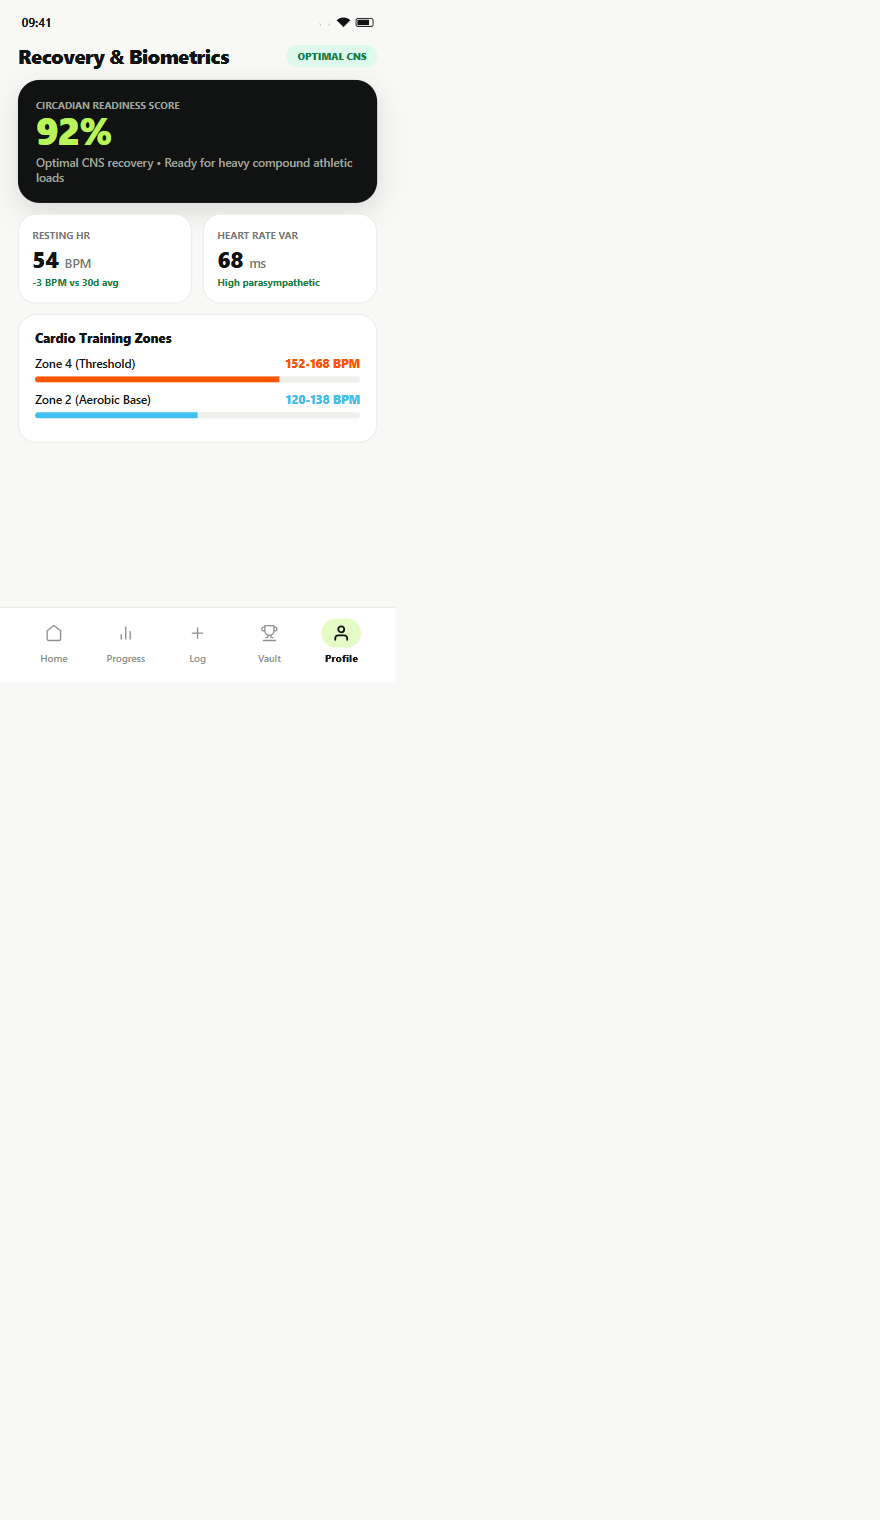
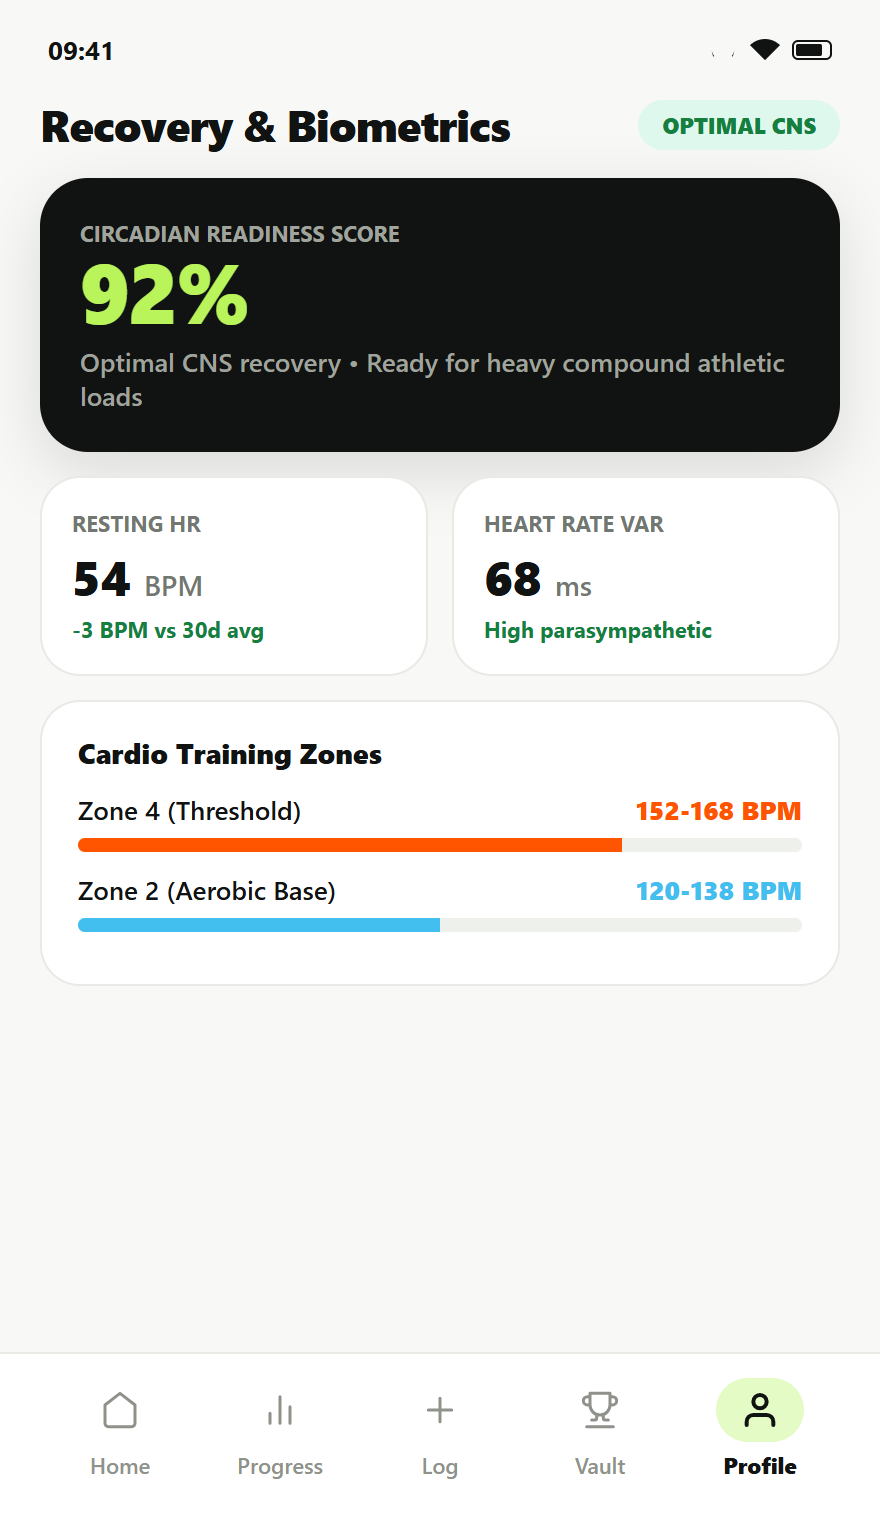
feat: landing UX improvements, real app mockups, centered case studies, and downloads tracking backend

diff --git a/components/landing/RuangEditLandingPage.tsx b/components/landing/RuangEditLandingPage.tsx
@@ -22,6 +22,25 @@ const TILTED_GRID_SCREENS = [
   { src: '/screens/screen_login.png', alt: 'FitFlow Athlete Authentication' },
 ] as const;
 
+const SERVICE_TRACK_SCREENS: Record<'strength' | 'biometrics' | 'hydration' | 'habits', { src: string; alt: string }> = {
+  strength: {
+    src: '/screens/screen_progress.png',
+    alt: 'FitFlow Strength & Heavy Overload Tracking',
+  },
+  biometrics: {
+    src: '/screens/screen_profile.png',
+    alt: 'FitFlow Heart Rate & Biometrics Telemetry',
+  },
+  hydration: {
+    src: '/screens/screen_home.png',
+    alt: 'FitFlow Daily Dashboard & Hydration Target',
+  },
+  habits: {
+    src: '/screens/screen_rewards.png',
+    alt: 'FitFlow 21-Day Habit Streaks & Milestone Vault',
+  },
+};
+
 export function RuangEditLandingPage() {
   const [isLoading, setIsLoading] = useState(true);
   const [activeSection, setActiveSection] = useState<'home' | 'services' | 'about'>('home');
@@ -228,14 +247,9 @@ export function RuangEditLandingPage() {
               alt="FitFlow Logo"
               className="w-8 h-8 sm:w-9 sm:h-9 rounded-full object-contain shadow-xs group-hover:scale-105 transition-transform"
             />
-            <div className="flex items-baseline gap-1.5 select-none">
-              <span className="font-extrabold text-white text-base sm:text-xl tracking-tight">
-                FitFlow
-              </span>
-              <span className="text-[10px] sm:text-xs font-semibold px-1.5 py-0.5 rounded-md bg-white/10 text-neutral-300 border border-white/10">
-                app
-              </span>
-            </div>
+            <span className="font-extrabold text-white text-base sm:text-xl tracking-tight select-none">
+              FitFlow
+            </span>
           </button>
 
           {/* Nav Links with Animated Active Indicator */}
@@ -514,96 +528,68 @@ export function RuangEditLandingPage() {
               ))}
             </div>
 
-            {/* Track Content Card (Side-by-Side Detail & Live Preview) */}
-            <div className="bg-neutral-50 border border-neutral-200/90 rounded-3xl p-6 sm:p-10 lg:p-12 grid grid-cols-1 lg:grid-cols-12 gap-8 lg:gap-12 items-center">
-              
-              {/* Left Column: Track Info & Features */}
-              <div className="lg:col-span-7 flex flex-col gap-6">
-                <div>
-                  <span className="text-xs font-bold text-[#9A3412] tracking-wide">
-                    {currentTrack.tag}
-                  </span>
-                  <h3 className="text-2xl sm:text-3xl font-extrabold text-neutral-950 tracking-tight mt-1 mb-3">
-                    {currentTrack.title}
-                  </h3>
-                  <p className="text-sm sm:text-base text-neutral-600 leading-relaxed">
-                    {currentTrack.description}
-                  </p>
-                </div>
-
-                {/* 3 Quick Telemetry Metrics */}
-                <div className="grid grid-cols-3 gap-3 py-4 border-y border-neutral-200">
-                  {currentTrack.metrics.map((m, idx) => (
-                    <div key={idx} className="flex flex-col">
-                      <span className="text-xs text-neutral-500 font-semibold">{m.label}</span>
-                      <span className="text-xs sm:text-sm font-bold text-neutral-950 mt-0.5">{m.value}</span>
-                    </div>
-                  ))}
-                </div>
-
-                {/* Feature Bullet Checklist */}
-                <ul className="flex flex-col gap-2.5">
-                  {currentTrack.features.map((feat, idx) => (
-                    <li key={idx} className="flex items-start gap-2.5 text-xs sm:text-sm text-neutral-700">
-                      <span aria-hidden="true" className="w-4 h-4 rounded-full bg-orange-100 text-[#9A3412] flex items-center justify-center shrink-0 mt-0.5 font-bold text-xs">
-                        ✓
+            {/* Track Content Card with Onboarding-Style Slide Transition & Real Phone Mockup */}
+            <div className="relative min-h-[460px] sm:min-h-[500px]">
+              <AnimatePresence mode="wait">
+                <motion.div
+                  key={activeServiceTab}
+                  initial={{ opacity: 0, x: 28, scale: 0.99 }}
+                  animate={{ opacity: 1, x: 0, scale: 1 }}
+                  exit={{ opacity: 0, x: -28, scale: 0.99 }}
+                  transition={{ duration: 0.28, ease: [0.16, 1, 0.3, 1] }}
+                  className="bg-neutral-50 border border-neutral-200/90 rounded-3xl p-6 sm:p-10 lg:p-12 grid grid-cols-1 lg:grid-cols-12 gap-8 lg:gap-12 items-center"
+                >
+                  {/* Left Column: Track Info & Features */}
+                  <div className="lg:col-span-7 flex flex-col gap-6">
+                    <div>
+                      <span className="text-xs font-bold text-[#9A3412] tracking-wide uppercase">
+                        {currentTrack.tag}
                       </span>
-                      <span>{feat}</span>
-                    </li>
-                  ))}
-                </ul>
-              </div>
-
-              {/* Right Column: High-Craft Live Phone Telemetry Preview (Large & Clear) */}
-              <div className="lg:col-span-5 flex justify-center">
-                <div className="w-full max-w-[380px] sm:max-w-[420px] rounded-3xl bg-neutral-950 text-white p-6 sm:p-7 shadow-2xl border border-neutral-800 flex flex-col gap-5">
-                  
-                  {/* Phone Header Bar */}
-                  <div className="flex items-center justify-between pb-3 border-b border-neutral-800">
-                    <div className="flex items-center gap-2">
-                      <span className="w-2 h-2 rounded-full bg-[#FF5500] animate-pulse" />
-                      <span className="text-xs font-mono font-bold tracking-tight text-white">
-                        {currentTrack.phonePreview.screenTitle}
-                      </span>
+                      <h3 className="text-2xl sm:text-3xl font-extrabold text-neutral-950 tracking-tight mt-1 mb-3">
+                        {currentTrack.title}
+                      </h3>
+                      <p className="text-sm sm:text-base text-neutral-600 leading-relaxed">
+                        {currentTrack.description}
+                      </p>
                     </div>
-                    <span className="text-xs font-bold tracking-wider px-2 py-0.5 rounded-full bg-orange-500/20 text-[#FF7A00] border border-orange-500/30">
-                      {currentTrack.phonePreview.badge}
-                    </span>
+
+                    {/* 3 Quick Telemetry Metrics */}
+                    <div className="grid grid-cols-3 gap-3 py-4 border-y border-neutral-200">
+                      {currentTrack.metrics.map((m, idx) => (
+                        <div key={idx} className="flex flex-col">
+                          <span className="text-xs text-neutral-500 font-semibold">{m.label}</span>
+                          <span className="text-xs sm:text-sm font-bold text-neutral-950 mt-0.5">{m.value}</span>
+                        </div>
+                      ))}
+                    </div>
+
+                    {/* Feature Bullet Checklist */}
+                    <ul className="flex flex-col gap-2.5">
+                      {currentTrack.features.map((feat, idx) => (
+                        <li key={idx} className="flex items-start gap-2.5 text-xs sm:text-sm text-neutral-700">
+                          <span aria-hidden="true" className="w-4 h-4 rounded-full bg-orange-100 text-[#9A3412] flex items-center justify-center shrink-0 mt-0.5 font-bold text-xs">
+                            ✓
+                          </span>
+                          <span>{feat}</span>
+                        </li>
+                      ))}
+                    </ul>
                   </div>
 
-                  {/* Active Exercise Metric Card */}
-                  <div className="rounded-2xl bg-neutral-900 border border-neutral-800 p-4 flex flex-col gap-2">
-                    <span className="text-xs text-neutral-400 font-medium">Active Telemetry</span>
-                    <span className="text-lg font-extrabold text-white tracking-tight">
-                      {currentTrack.phonePreview.exercise}
-                    </span>
-                    <div className="flex items-center justify-between text-xs text-neutral-300 font-mono mt-1">
-                      <span>{currentTrack.phonePreview.set}</span>
-                      <span className="font-bold text-[#FF5500]">{currentTrack.phonePreview.weight}</span>
+                  {/* Right Column: High-Craft Live Phone Mockup with Real App Screen */}
+                  <div className="lg:col-span-5 flex justify-center">
+                    <div className="relative w-full max-w-[280px] xs:max-w-[300px] sm:max-w-[320px] aspect-[440/760] rounded-[32px] p-2 bg-neutral-950 shadow-[0_20px_50px_rgba(0,0,0,0.18)] border-4 border-neutral-900 overflow-hidden flex items-center justify-center">
+                      <div className="w-full h-full rounded-[24px] overflow-hidden bg-[#F8F8F6]">
+                        <img
+                          src={SERVICE_TRACK_SCREENS[activeServiceTab].src}
+                          alt={SERVICE_TRACK_SCREENS[activeServiceTab].alt}
+                          className="w-full h-full object-cover object-top select-none"
+                        />
+                      </div>
                     </div>
                   </div>
-
-                  {/* Progress Bar & Status */}
-                  <div className="rounded-2xl bg-neutral-900/60 border border-neutral-800/80 p-3.5 flex flex-col gap-2">
-                    <div className="flex items-center justify-between text-xs text-neutral-300">
-                      <span>Status</span>
-                      <span className="text-emerald-400 font-semibold">{currentTrack.phonePreview.status}</span>
-                    </div>
-                    <div className="w-full h-2 rounded-full bg-neutral-800 overflow-hidden">
-                      <div className="h-full bg-gradient-to-r from-[#FF5500] to-orange-400 rounded-full w-4/5 animate-pulse" />
-                    </div>
-                  </div>
-
-                  {/* Bottom Action */}
-                  <button
-                    type="button"
-                    onClick={() => setIsDownloadModalOpen(true)}
-                    className="w-full h-10 rounded-full bg-white hover:bg-neutral-100 text-neutral-950 font-bold text-xs text-center transition-all cursor-pointer shadow-sm flex items-center justify-center"
-                  >
-                    Launch on Phone ↗
-                  </button>
-                </div>
-              </div>
+                </motion.div>
+              </AnimatePresence>
             </div>
           </AnimatedContent>
         </div>

diff --git a/app/api/downloads/route.ts b/app/api/downloads/route.ts
@@ -1,0 +1,80 @@
+import { NextRequest, NextResponse } from 'next/server';
+import { query } from '@/lib/db';
+
+export async function POST(req: NextRequest) {
+  try {
+    const body = await req.json().catch(() => ({}));
+    const platform = body.platform || 'web';
+    const source = body.source || 'landing_download';
+    const userEmail = body.user_email || null;
+    const userId = body.user_id || null;
+
+    const userAgent = req.headers.get('user-agent') || 'unknown';
+    const forwardedFor = req.headers.get('x-forwarded-for');
+    const ipAddress = forwardedFor ? forwardedFor.split(',')[0].trim() : '127.0.0.1';
+
+    const insertSql = `
+      INSERT INTO public.downloads (user_id, user_email, platform, source, user_agent, ip_address)
+      VALUES ($1, $2, $3, $4, $5, $6)
+      RETURNING id, created_at;
+    `;
+
+    const res = await query(insertSql, [userId, userEmail, platform, source, userAgent, ipAddress]);
+    const inserted = res.rows[0];
+
+    return NextResponse.json({
+      success: true,
+      id: inserted.id,
+      created_at: inserted.created_at,
+      message: 'Download event recorded successfully',
+    });
+  } catch (err: any) {
+    console.error('Error tracking download:', err);
+    return NextResponse.json(
+      { success: false, error: err.message || 'Internal server error' },
+      { status: 500 }
+    );
+  }
+}
+
+export async function GET() {
+  try {
+    const countRes = await query(`SELECT COUNT(*)::int as total FROM public.downloads;`);
+    const total = countRes.rows[0]?.total || 0;
+
+    const bySourceRes = await query(`
+      SELECT source, COUNT(*)::int as count 
+      FROM public.downloads 
+      GROUP BY source 
+      ORDER BY count DESC;
+    `);
+
+    const byPlatformRes = await query(`
+      SELECT platform, COUNT(*)::int as count 
+      FROM public.downloads 
+      GROUP BY platform 
+      ORDER BY count DESC;
+    `);
+
+    const recentRes = await query(`
+      SELECT id, user_id, user_email, platform, source, ip_address, created_at 
+      FROM public.downloads 
+      ORDER BY created_at DESC 
+      LIMIT 50;
+    `);
+
+    return NextResponse.json({
+      success: true,
+      totalDownloads: total,
+      bySource: bySourceRes.rows,
+      byPlatform: byPlatformRes.rows,
+      recent: recentRes.rows,
+    });
+  } catch (err: any) {
+    console.error('Error fetching downloads:', err);
+    return NextResponse.json(
+      { success: false, error: err.message || 'Internal server error' },
+      { status: 500 }
+    );
+  }
+}

diff --git a/components/reactbits/CaseStudyFlipStack.tsx b/components/reactbits/CaseStudyFlipStack.tsx
@@ -162,21 +162,22 @@ function FlipCard({
           transformOrigin: "50% 100%",
         }}
       >
-        <div className="flex min-w-0 flex-col p-6 sm:p-8 md:p-10 justify-between">
-          <div className="flex items-start">
-            <span className="text-2xl sm:text-3xl font-extrabold leading-none tracking-tight text-[#C2410C]">
+        <div className="flex min-w-0 flex-col justify-center p-6 sm:p-8 md:p-10 gap-3 sm:gap-4 my-auto">
+          <div className="flex items-center gap-3">
+            <span className="text-2xl sm:text-3xl font-black leading-none tracking-tight text-[#FF5500]">
               {item.number ?? String(index + 1).padStart(2, "0")}
             </span>
-          </div>
-
-          <div className="max-w-xl pt-4 sm:pt-6">
-            <p className="mb-2 text-xs font-bold tracking-wide text-[#9A3412]">
+            <span className="h-4 w-px bg-neutral-300" />
+            <p className="text-xs font-bold uppercase tracking-wider text-[#9A3412]">
               {item.eyebrow}
             </p>
-            <h3 className="text-xl sm:text-2xl md:text-3xl font-extrabold leading-tight tracking-tight text-neutral-950">
+          </div>
+
+          <div className="max-w-xl">
+            <h3 className="text-xl sm:text-2xl md:text-3xl font-extrabold leading-snug tracking-tight text-neutral-950">
               {item.title}
             </h3>
-            <p className="mt-2.5 sm:mt-3 text-xs sm:text-sm leading-relaxed text-neutral-700 font-normal">
+            <p className="mt-2 sm:mt-3 text-xs sm:text-sm leading-relaxed text-neutral-700 font-normal">
               {item.description}
             </p>
           </div>
@@ -184,7 +185,7 @@ function FlipCard({
 
         {/* Large, High-Impact App Screen Preview */}
         <div className="relative h-full min-h-[300px] xs:min-h-[340px] sm:min-h-[420px] p-3 sm:p-5 flex items-center justify-center bg-gradient-to-br from-neutral-50 to-neutral-100/80 overflow-hidden">
-          <div className="relative w-full max-w-[360px] xs:max-w-[400px] sm:max-w-[460px] h-full max-h-[320px] xs:max-h-[360px] sm:max-h-[440px] rounded-2xl overflow-hidden shadow-[0_12px_40px_rgba(0,0,0,0.12)] border border-neutral-200/90 bg-white">
+          <div className="relative w-full max-w-[320px] xs:max-w-[340px] sm:max-w-[360px] aspect-[440/760] rounded-2xl overflow-hidden shadow-[0_12px_40px_rgba(0,0,0,0.12)] border border-neutral-200/90 bg-white">
             <img
               src={item.image}
               alt={item.imageAlt}

diff --git a/app/api/auth/otp/verify/route.ts b/app/api/auth/otp/verify/route.ts
@@ -102,6 +102,20 @@ export async function POST(req: NextRequest) {
             [now, email]
           );
         } catch {}
+
+        // 5. Record user active/download count in public.downloads
+        try {
+          const userAgent = req.headers.get('user-agent') || 'app_client';
+          const forwarded = req.headers.get('x-forwarded-for');
+          const clientIp = forwarded ? forwarded.split(',')[0].trim() : '127.0.0.1';
+          await query(
+            `INSERT INTO public.downloads (user_id, user_email, platform, source, user_agent, ip_address)
+             VALUES ($1, $2, 'app', 'app_login', $3, $4)`,
+            [finalUserId, email, userAgent, clientIp]
+          );
+        } catch (dlErr) {
+          console.warn('[API /auth/otp/verify] Downloads tracking error:', dlErr);
+        }
       } catch (dbErr) {
         console.warn('[API /auth/otp/verify] DB session creation error:', dbErr);
       }

diff --git a/components/landing/DownloadModal.tsx b/components/landing/DownloadModal.tsx
@@ -38,6 +38,15 @@ export function DownloadModal({ isOpen, onClose }: DownloadModalProps) {
   }, []);
 
   const handleDownload = async (platform: 'android' | 'ios') => {
+    // Record download event in Supabase backend
+    try {
+      fetch('/api/downloads', {
+        method: 'POST',
+        headers: { 'Content-Type': 'application/json' },
+        body: JSON.stringify({ platform, source: 'landing_modal' }),
+      }).catch(() => {});
+    } catch {}
+
     if (deferredPrompt) {
       try {
         await deferredPrompt.prompt();
